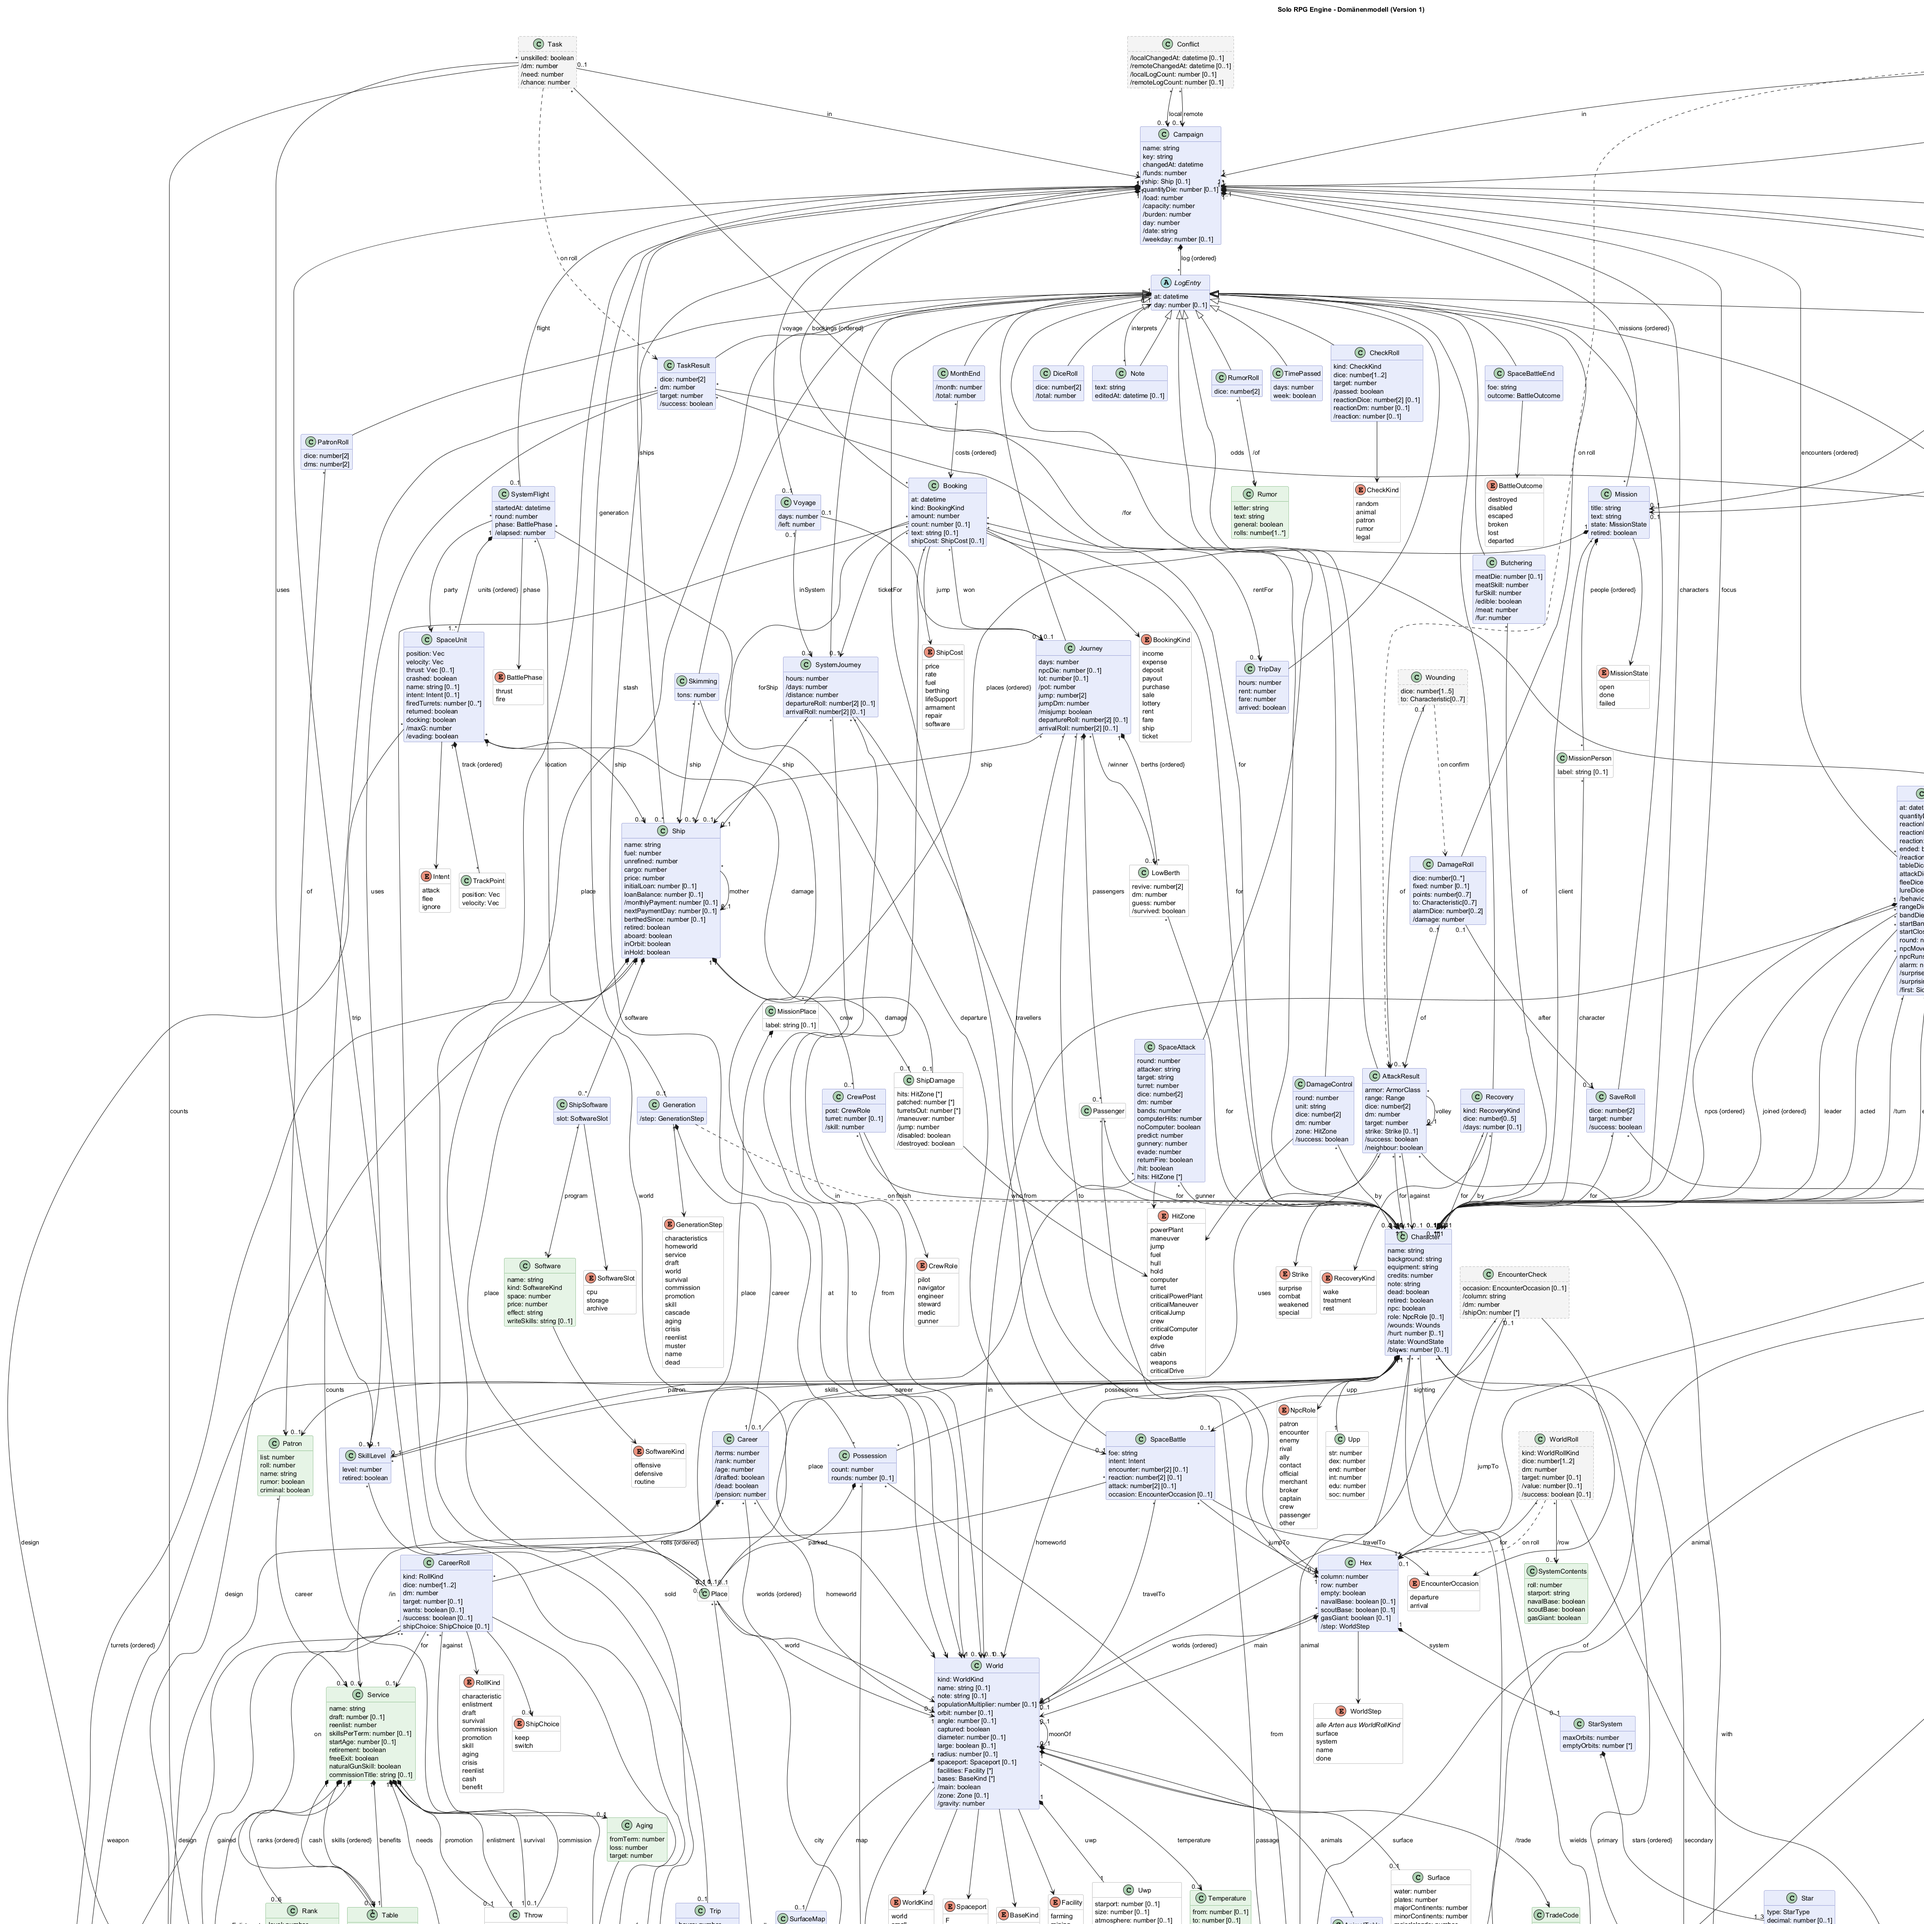
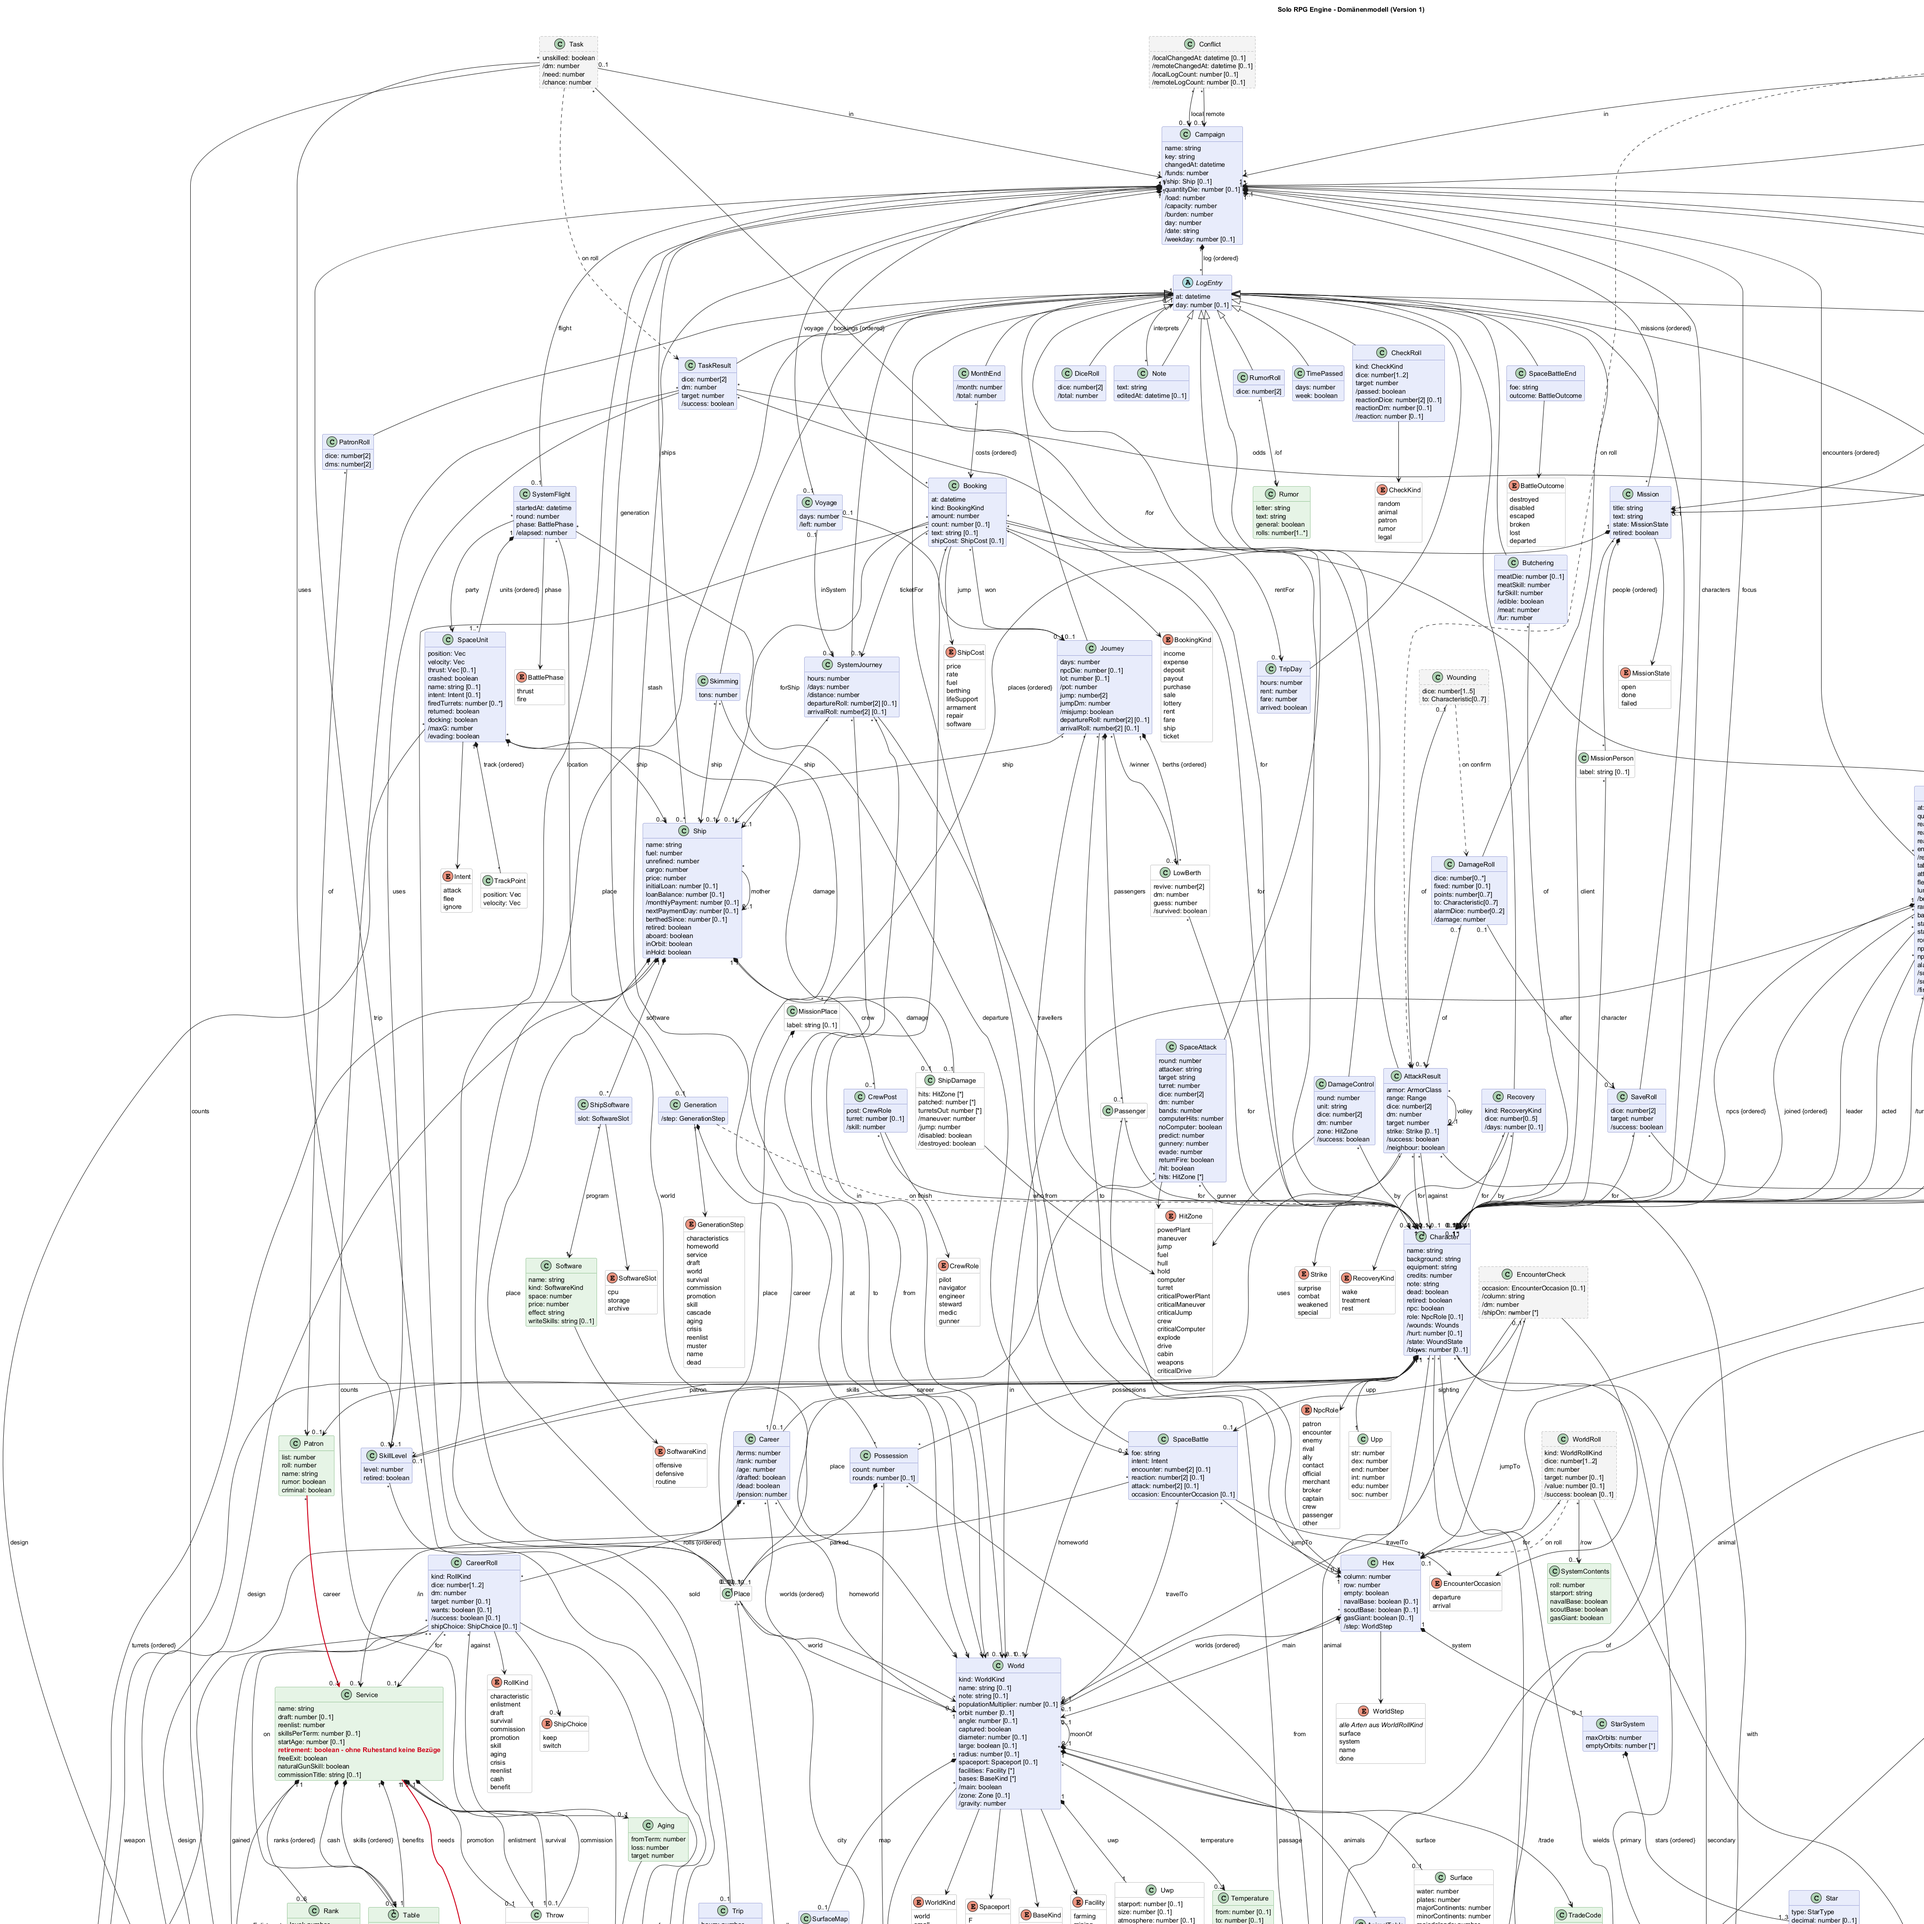
Entwurf 2026-11-24e: Der Barbar ohne Ruhestand und der NSC-Lauf mit Qualifikation
Drei Funde beim Durchspielen „NSC aus einer Laufbahn“ mit den neuen Laufbahnen:

- **Barbar:** B4 S. 9 sagt „Barbarians cannot retire.“ Gefasst war das als „die Person geht nie
  weg“ – `retirement === false` schlägt im Modell auf *bleiben* durch, und zwar vor der Obergrenze
  von sieben Terms. Ein Barbar kommt damit nie zur Abmusterung: ein erzeugter NSC in dieser
  Laufbahn gibt die Meldung „Der Lauf des Patron-NSC kommt nicht zum Ende.“, und eine Spielfigur könnte die
  Laufbahn nie verlassen. Ruhestand heißt im Vorbild (B1 S. 7) aber *mit Bezügen ausscheiden*: Die
  Laufbahn ohne Ruhestand gibt **keine Ruhestandsbezüge**, ihr Ende ist sonst das übliche.
- **Siebenter Term:** B1 S. 7 – nach sieben Terms ist der Ruhestand Pflicht, nur eine 12 hält
  weiter im Dienst. Das Modell ließ dort *jeden* bleiben (die Oberfläche sagt seit je „nach 7 Terms
  bleibt nur, wer eine 12 würfelt“ – Modell und Text widersprechen sich).
- **Adliger:** die Musterung wirft eine DomainError, wenn der gewürfelte Stand unter 10 bleibt, und
  wirft sie aus dem Lauf heraus, statt ihn neu zu würfeln – neun von zwölf Versuchen scheitern.

Neu im Bild (rot): `Service.retirement` mit der neuen Bedeutung, der Pfeil `Service → Qualification`
(ein Lauf würfelt von vorn, wenn die Qualifikation fehlt, wie bei abgelehnter Musterung) und der
Pfeil `Patron → Service` (die Patron-Reihen wählen aus allen achtzehn Laufbahnen statt aus sechs).
[…]

diff --git a/docs/domain-model.md b/docs/domain-model.md
@@ -618,7 +618,7 @@ Lücken unter [Wo der Code noch nicht folgt](#wo-der-code-noch-nicht-folgt).
 > Laufbahnen aus Supplement 4 *Citizens of the Imperium* (Regeln und Tabellen in
 > [`regeln-laufbahnen.md`](regeln-laufbahnen.md)). Sie bringen keine neue Schicht, nur Felder an den
 > Referenzdaten: `Service` bekommt `startAge` (Belterer und Barbar beginnen mit 14), `retirement`
-> (ein Barbar tritt nie in den Ruhestand), `freeExit` (ein Bürokrat darf nur mit gelungener
+> (ein Barbar tritt nie in den Ruhestand – seit 2026-11-24e: ohne Bezüge), `freeExit` (ein Bürokrat darf nur mit gelungener
 > Weiterverpflichtung weg) und `naturalGunSkill` (Barbar, Bürokrat und Arzt haben keine natürliche
 > Schusswaffenkunde), und mit `Qualification` eine neue Referenzklasse für den **Einstieg ohne
 > Wurf** (`needs`, beim Adligen Stand 10+). `draft` wird **optional**: eine Laufbahn ohne
@@ -662,6 +662,8 @@ Lücken unter [Wo der Code noch nicht folgt](#wo-der-code-noch-nicht-folgt).
 > und die Person würfelt den Rangwurf wie jede andere. Der Adel ist die einzige Laufbahn mit
 > Standesrängen; an den übrigen ändert sich nichts, ihr `standing` ist leer.
 
+> Noch nicht freigegeben (Kennzeichen **2026-11-24e**): **Der Barbar ohne Ruhestand und der NSC-Lauf mit Qualifikation**. `Service.retirement` sagt künftig nur noch aus, ob es für die Laufbahn einen **Ruhestand mit Bezügen** gibt: `false` (der Barbar, B4 S. 9 „Barbarians cannot retire“) heißt **keine Ruhestandsbezüge**, sein Ende ist sonst das übliche. Bis jetzt hieß `retirement === false` „die Person geht nie weg“ – und weil das vor der Obergrenze von sieben Terms griff, kam ein Barbar nie zur Abmusterung: ein NSC in dieser Laufbahn war unmöglich. Neu gefasst auch das Ende nach dem **siebenten Term**: dort bleibt nur, wer eine **12** würfelt (B1 S. 7: “retirement is mandatory … persons who throw 12 may continue“); bis jetzt blieb, wer sieben Terme gedient hatte, unabhängig vom Wurf. Ein **Lauf** (die zufällig durchlaufene Erschaffung eines NSC) würfelt **von vorn**, wenn die Werte die `needs`-Qualifikation nicht erfüllen – beim Adligen Stand 10+ – statt abzubrechen, wie das bei abgelehnter Musterung schon heute geschieht. Und die **Patron-Reihen** (`Patron.career`) wählen jetzt aus **allen achtzehn** Laufbahnen statt nur aus sechs: Schmuggler und Pirat → Pirate, Schurke/Swindler/Unterwelt/Brandstifter → Rogue, Gelehrter/Forscher/Professor/Wissenschaftler → Scientist, Noble/Playboy/Émigré → Noble, Clerk/Administrator/Gouverneur/Government Official/Bürokrat → Bureaucrat, Belter → Belter, Hunter → Hunter, Pilot → Flyer, Barbarian → Barbarian, Doctor → Doctor, Diplomat → Diplomat, Crewmember → Sailor; die übrigen Zeilen bleiben, wo sie waren. Der Ausschnitt dazu liegt unter [`changes/2026-11-24e-der-barbar-ohne-ruhestand.png`](changes/2026-11-24e-der-barbar-ohne-ruhestand.png).
+>
 ![Domänenmodell der Solo RPG Engine](domain-model.png)
 
 Die Quelle ist [`domain-model.puml`](domain-model.puml) (PlantUML). Nach jeder Änderung das Bild und
@@ -2209,7 +2211,9 @@ Vacc Suit, Jack-of-all-Trades, …), Terms, Cr.
   - **NSC aus einer Laufbahn** (2026-11-14c). „+ Neuer NSC“ in der NSC-Liste fragt zuerst nach der
     **Rolle** und bietet dann an: leer anlegen (Editor wie bisher) oder **aus einer Laufbahn
     erzeugen**. Erzeugt wird wie beim Patron-NSC, nur in der gewählten Laufbahn: Die
-    Charaktererschaffung läuft zufällig und ohne Animation durch (abgelehnt oder tot: von vorn),
+    Charaktererschaffung läuft zufällig und ohne Animation durch (abgelehnt, ohne
+    `needs`-Qualifikation oder tot: von vorn – beim Adligen also, solange der Stand unter 10 bleibt,
+    2026-11-24e),
     Name von der Tafel NSC, Ort der Aufenthaltsort, danach öffnet der Editor zum Nachbessern. Ohne
     Aufenthaltsort geht es nicht. Er hat keinen Patron. Lange auf „NSC platzieren“ am angetippten
     Feld des Globus gedrückt (2026-11-17), lebt er stattdessen auf diesem Feld bzw. in der Stadt
@@ -2626,11 +2630,12 @@ Vacc Suit, Jack-of-all-Trades, …), Terms, Cr.
        *Krise* (Schritt und Wurf `crisis`, 2W6, 8+): gelingt sie, steht das Attribut auf 1, sonst ist
        der Charakter tot. Die Krise stammt aus dem Vorbild, nicht aus den Charts.
     5. *Weiterverpflichtung*: Man sagt, ob man bleiben will (`wants`), dann wird immer gewürfelt. Eine
-       12 heißt bleiben, egal was man wollte. Sonst bleibt, wer will und den Zielwert schafft, außer
-       nach dem 7. Term: dann nur mit 12 (aus dem Vorbild). Eine Laufbahn ohne `retirement` (Barbar) lässt
-       einen nie freiwillig weg: dienen bis zum 7. Term. Eine ohne `freeExit` (Bürokrat) lässt vor dem
-       Ruhestand nur weg, wenn die Weiterverpflichtung gelingt, gleich was man wollte. Wer bleibt,
-       beginnt den nächsten Term (3.), alle anderen mustern ab.
+       12 heißt bleiben, egal was man wollte. Sonst bleibt, wer will und den Zielwert schafft; nach dem
+       7. Term bleibt nur, wer eine 12 würfelt (aus dem Vorbild, 2026-11-24e). Eine Laufbahn ohne
+       `retirement` (Barbar) gibt **keine Ruhestandsbezüge**, ihr Ende ist sonst das übliche
+       (2026-11-24e; vorher blieb sie bis zum 7. Term und dann ganz). Eine ohne `freeExit` (Bürokrat)
+       lässt vor dem Ruhestand nur weg, wenn die Weiterverpflichtung gelingt, gleich was man wollte.
+       Wer bleibt, beginnt den nächsten Term (3.), alle anderen mustern ab.
     6. *Abmusterung*: so viele Würfe wie Terms, dazu +1 bei Rang 1–2, +2 bei Rang 3–4, +3 bei Rang
        5–6. Je Wurf wählt man Geld oder Sachwerte; Geld höchstens dreimal. DM +1 auf Geld mit
        Gambling, DM +1 auf Sachwerte ab Rang 5. Ein Gegenstand mit `once` (Travellers' Aid Society,
@@ -2638,7 +2643,7 @@ Vacc Suit, Jack-of-all-Trades, …), Terms, Cr.
        Kaskade mit `weapon`: Man wählt eine Fertigkeit daraus und bekommt den Gegenstand, der sie
        nutzt (`uses`), statt der Fertigkeit. Wählt man eine Waffe, die man schon aus der Abmusterung
        hat, steigt stattdessen die Fertigkeit darin um 1. Nach mindestens 5 Terms gibt es eine Pension (Cr 4000
-       bei 5 Terms, je Term mehr Cr 2000).
+       bei 5 Terms, je Term mehr Cr 2000); eine Laufbahn ohne `retirement` gibt keine (2026-11-24e).
     7. *Name*: Zum Schluss gibt man den Namen ein und schließt ab.
   - **Zugewinne.** Eine Zeile (`Gain`) bringt genau eins: eine Fertigkeit +1 (`skill`), eine Wahl aus
     einer Kaskade (`choose`, mit `weapon` die Waffe statt der Fertigkeit), ein Attribut ± `change`
